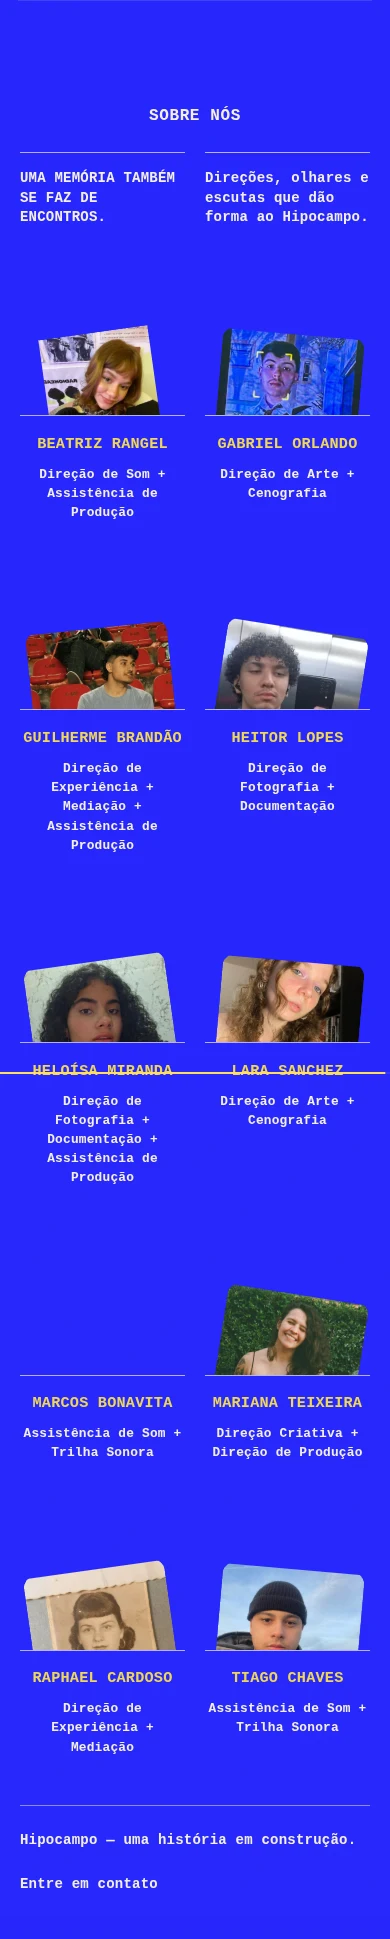
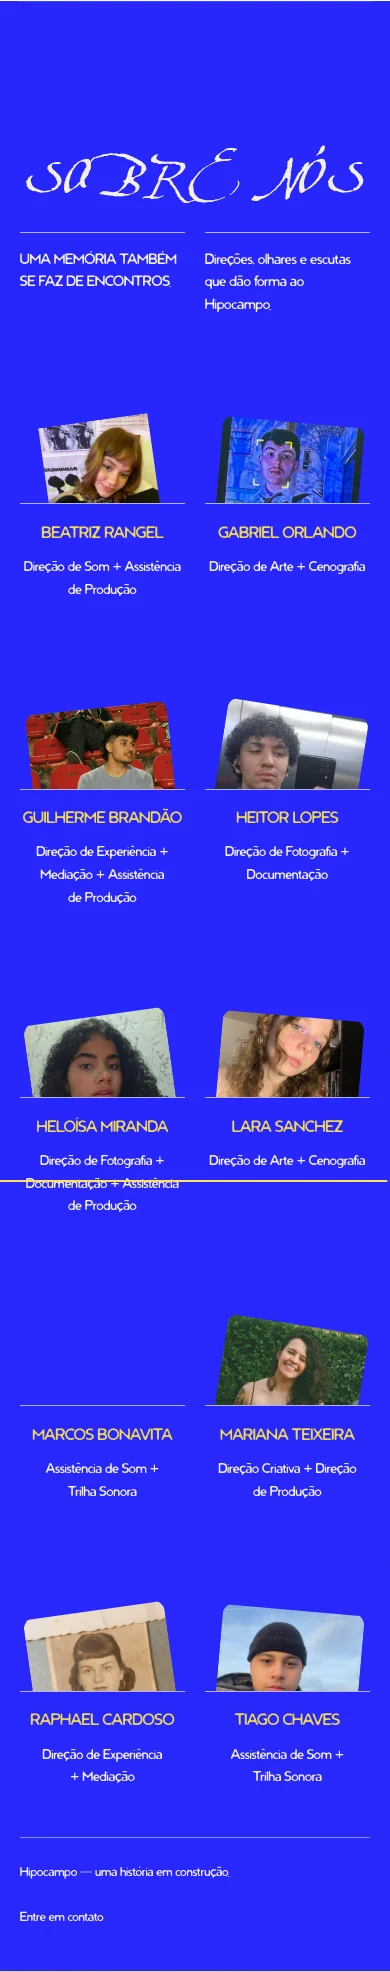
feat(relatos): entrar na carta em tela cheia e aplicar fontes locais

diff --git a/Kimi_Agent_HIPOCAMPO 3D Interactive Site/hipocampo/public/assets/stories-letter.js b/Kimi_Agent_HIPOCAMPO 3D Interactive Site/hipocampo/public/assets/stories-letter.js
@@ -17,12 +17,13 @@ export function prepareStoriesLetter(section) {
         <div class="stories-envelope-scene">
           <div class="stories-envelope-back" aria-hidden="true"></div>
           <div class="stories-paper-pocket">
-            <article class="stories-letter-paper" id="relatos-carta" aria-label="Espaço reservado para os relatos" aria-hidden="true"></article>
+            <article class="stories-letter-paper" id="relatos-carta" aria-hidden="true"></article>
           </div>
           <div class="stories-envelope-front" aria-hidden="true"><span class="stories-envelope-name">Hipocampo</span></div>
           <div class="stories-envelope-flap" aria-hidden="true"></div>
           <div class="stories-envelope-seal" aria-hidden="true">H</div>
         </div>
+        <article class="stories-reading-room" id="relatos-conteudo" aria-label="Relatos" aria-hidden="true"><p>Em breve, relatos</p></article>
       </div>
     </div>`
 
@@ -34,45 +35,57 @@ export function prepareStoriesLetter(section) {
   const seal = section.querySelector('.stories-envelope-seal')
   const pocket = section.querySelector('.stories-paper-pocket')
   const paper = section.querySelector('.stories-letter-paper')
+  const room = section.querySelector('.stories-reading-room')
   const shell = [flap, section.querySelector('.stories-envelope-back'), section.querySelector('.stories-envelope-front')]
   let lastPhase = ''
   const setPhase = phase => {
     if (phase === lastPhase) return
     lastPhase = phase
     section.dataset.letterPhase = phase
-    paper.setAttribute('aria-hidden', String(phase !== 'open'))
+    room.setAttribute('aria-hidden', String(phase !== 'open'))
+    section.dispatchEvent(new CustomEvent('hipocampo:letter-phase', { bubbles: true }))
   }
-  // Geometry is read only when the timeline is created/refreshed, never in
-  // wheel/touch handlers. Normal page scrolling drives the reversible scene.
-  const paperY = () => {
-    const height = window.innerHeight
-    const naturalTop = stage.clientHeight * .58 + scene.offsetHeight / 2 - 16 - paper.offsetHeight
-    return Math.max(120, height * .2) - naturalTop
+  // Cache the camera framing on refresh, including mobile browser-bar changes.
+  // No geometry reads or document-wide custom properties on scroll frames.
+  let geometry = {}
+  const measure = () => {
+    const height = stage.clientHeight
+    const paperHeight = paper.offsetHeight
+    const anchor = height * .58 + scene.offsetHeight / 2 - 16
+    const zoom = Math.max(stage.clientWidth / paper.offsetWidth, height / paperHeight) * 1.06
+    geometry = {
+      paperY: Math.max(120, height * .2) - (anchor - paperHeight),
+      zoom, zoomY: (height + paperHeight * zoom) / 2 - anchor,
+      shellY: Math.min(height * .22, 180),
+    }
   }
   const media = gsap.matchMedia()
   media.add('(prefers-reduced-motion: no-preference)', () => {
     setPhase('closed')
+    measure()
     const timeline = gsap.timeline({
       defaults: { ease: 'none' },
       scrollTrigger: {
         id: 'hipocampo-stories-letter', trigger: track,
         start: 'top top', end: 'bottom bottom', scrub: true,
-        invalidateOnRefresh: true,
-        onUpdate: self => setPhase(self.progress < .06 ? 'closed' : self.progress < .82 ? 'opening' : 'open'),
+        invalidateOnRefresh: true, onRefreshInit: measure,
+        onUpdate: self => setPhase(self.progress < .06 ? 'closed' : self.progress < .8 ? 'opening' : 'open'),
       },
     })
     timeline
       .set(flap, { rotationX: 0, zIndex: 4, transformOrigin: '50% 0%' }, 0)
-      .set(paper, { scaleX: .94, scaleY: .42, y: 0, transformOrigin: '50% 100%' }, 0)
+      .set(paper, { scaleX: .94, scaleY: .42, y: 0, rotationX: 0, rotationY: 0, transformOrigin: '50% 100%' }, 0)
       .set(pocket, { overflow: 'hidden' }, 0)
-      .to(seal, { opacity: 0, scale: .65, duration: .12 }, .02)
-      .to(flap, { rotationX: -180, duration: .28 }, .07)
-      .to(intro, { opacity: 0, y: -24, duration: .22 }, .12)
-      .set(flap, { zIndex: 0 }, .24)
-      .set(pocket, { overflow: 'visible' }, .28)
-      .to(paper, { scaleX: 1, scaleY: 1, y: paperY, duration: .36 }, .29)
-      .to(shell, { y: () => Math.min(window.innerHeight * .22, 180), opacity: 0, duration: .24 }, .58)
-      .to({}, { duration: .18 }, .82)
+      .to(seal, { opacity: 0, scale: .65, duration: .1 }, .02)
+      .to(flap, { rotationX: -180, duration: .2 }, .05)
+      .to(intro, { opacity: 0, y: -24, duration: .17 }, .08)
+      .set(flap, { zIndex: 0 }, .18)
+      .set(pocket, { overflow: 'visible' }, .2)
+      .to(paper, { scaleX: 1, scaleY: 1, y: () => geometry.paperY, rotationX: -7, rotationY: 3, duration: .24 }, .21)
+      .to(shell, { y: () => geometry.shellY, opacity: 0, duration: .22 }, .4)
+      .to(paper, { scaleX: () => geometry.zoom, scaleY: () => geometry.zoom, y: () => geometry.zoomY, rotationX: 0, rotationY: 0, duration: .32 }, .48)
+      .to(room, { autoAlpha: 1, duration: .06 }, .8)
+      .to({}, { duration: .14 }, .86)
   })
   media.add('(prefers-reduced-motion: reduce)', () => setPhase('open'))
 

diff --git a/Kimi_Agent_HIPOCAMPO 3D Interactive Site/hipocampo/public/assets/stories-letter.css b/Kimi_Agent_HIPOCAMPO 3D Interactive Site/hipocampo/public/assets/stories-letter.css
@@ -1,13 +1,13 @@
 #relatos.stories-letter-section { position: relative; padding: 0; background: #6b311c; color: #f4f0e7; scroll-margin-top: 0; overflow: clip; }
-.stories-scroll-track { position: relative; height: 260svh; }
-.stories-correspondence { position: sticky; top: 0; height: 100svh; perspective: 1200px; }
+.stories-scroll-track { position: relative; height: 320svh; }
+.stories-correspondence { position: sticky; top: 0; height: 100vh; height: 100dvh; overflow: hidden; perspective: 1200px; }
 .stories-introduction { position: absolute; top: max(6rem, 10svh); left: 1.25rem; right: 1.25rem; text-align: center; }
 #relatos .stories-eyebrow { margin: 0; color: #f0d756; font: 400 .8rem/1.5 "Courier New", Courier, monospace; letter-spacing: .14em; text-transform: uppercase; }
 #relatos .stories-introduction h2 { margin: .6rem 0 1.2rem; padding-bottom: .35em; color: #f4f0e7; font: 400 clamp(3.8rem, 6vw, 5.5rem)/1.35 "AquilineTwo", Georgia, serif; }
-#relatos .stories-invitation { margin: 0; font: 400 .875rem/1.5 "Courier New", Courier, monospace; }
+#relatos .stories-invitation { margin: 0; font: 400 1rem/1.5 "SquidBoy", sans-serif; }
 .stories-envelope-scene { position: absolute; left: 50%; top: 58%; width: min(88vw, 34rem); aspect-ratio: 1.58; transform: translate(-50%, -50%); perspective: 1200px; isolation: isolate; }
 .stories-envelope-back { position: absolute; inset: 0; z-index: 0; background: #d9cbae; border: 1px solid #c7b58f; border-radius: .25rem; box-shadow: 0 1.5rem 3rem #210c0740; }
-.stories-paper-pocket { position: absolute; inset: 0; z-index: 1; overflow: hidden; }
+.stories-paper-pocket { position: absolute; inset: 0; z-index: 1; overflow: hidden; perspective: 1200px; }
 .stories-letter-paper { position: absolute; left: 8%; bottom: 1rem; width: 84%; height: 56svh; max-height: 40rem; margin: 0; padding: 0; background: #fff; border: 1px solid #ebe8e2; border-radius: 2px; box-shadow: 0 .8rem 2rem #210c0726; transform: scale(.94, .42); transform-origin: 50% 100%; }
 /* The folds are separate moving surfaces: the top opens around its hinge,
    then the pocket moves away from the blank sheet. */
@@ -17,8 +17,10 @@
 .stories-envelope-name { position: absolute; z-index: 1; left: 0; right: 0; bottom: 22%; text-align: center; color: #6b311c; font: 400 clamp(2rem, 4vw, 3rem)/1.3 "AquilineTwo", Georgia, serif; }
 .stories-envelope-flap { position: absolute; z-index: 4; top: 0; left: 0; width: 100%; height: 60%; background: #e3d5b9; clip-path: polygon(0 0, 100% 0, 50% 100%); transform-origin: 50% 0%; backface-visibility: visible; }
 .stories-envelope-seal { position: absolute; z-index: 5; left: 50%; top: 52%; display: grid; place-items: center; width: 3rem; height: 3rem; margin-left: -1.5rem; color: #6b311c; background: #f0d756; border: 1px solid #c6a83e; border-radius: 50%; box-shadow: 0 2px 5px #54271330; font: 700 1.25rem/1 Georgia, "Times New Roman", serif; }
+.stories-reading-room { position: absolute; inset: 0; z-index: 6; display: grid; place-items: center; padding: 6rem 1.5rem 3rem; background: #fff; color: #6b311c; opacity: 0; visibility: hidden; }
+.stories-reading-room p { margin: 0; text-align: center; font: 400 clamp(1.5rem, 3vw, 2.5rem)/1.5 "SquidBoy", sans-serif; }
 @media (max-width: 600px) {
-  .stories-scroll-track { height: 250svh; }
+  .stories-scroll-track { height: 310svh; }
   .stories-introduction { top: 6.5rem; }
   #relatos .stories-introduction h2 { font-size: 3.8rem; }
   .stories-envelope-scene { width: 88vw; }
@@ -26,12 +28,7 @@
 }
 @media (prefers-reduced-motion: reduce) {
   .stories-scroll-track { height: auto; }
-  .stories-correspondence { position: relative; height: auto; min-height: 100svh; padding: 14rem 0 3rem; }
-  .stories-introduction { top: 6rem; }
-  #relatos .stories-introduction h2 { margin: .3rem 0; padding: 0; font-size: 2.8rem; }
-  .stories-invitation { display: none; }
-  .stories-envelope-scene { position: relative; left: auto; top: auto; margin: 0 auto; height: 56svh; transform: none; }
-  .stories-envelope-back, .stories-envelope-front, .stories-envelope-flap, .stories-envelope-seal { display: none; }
-  .stories-paper-pocket { overflow: visible; }
-  .stories-letter-paper { left: 0; bottom: 0; width: 100%; height: 100%; max-height: none; transform: none; }
+  .stories-correspondence { position: relative; height: auto; min-height: 100dvh; background: #fff; }
+  .stories-introduction, .stories-envelope-scene { display: none; }
+  .stories-reading-room { position: relative; min-height: 100vh; min-height: 100dvh; opacity: 1; visibility: visible; }
 }

diff --git a/Kimi_Agent_HIPOCAMPO 3D Interactive Site/hipocampo/public/assets/team-finale.css b/Kimi_Agent_HIPOCAMPO 3D Interactive Site/hipocampo/public/assets/team-finale.css
@@ -1,11 +1,11 @@
 #informacoes.team-finale {
   display: block; min-height: 100svh; padding: 8rem 6vw 3rem;
   background: #2626fc !important; color: #f4f0e7;
-  overflow: clip; font-family: "Courier New", Courier, monospace;
-  font-weight: 700;
+  overflow: clip; font-family: "SquidBoy", sans-serif;
+  font-weight: 400;
 }
 .team-finale-top, .team-intro, .team-credit-grid, .team-finale-bottom { max-width: 1160px; margin-inline: auto; }
-#informacoes.team-finale h2 { margin: 0; font: inherit; font-size: 1rem; line-height: 1.5; text-transform: uppercase; text-align: center; letter-spacing: .04em; }
+#informacoes.team-finale h2 { margin: 0; padding: .2em .1em .45em; font: 400 clamp(3rem, 5.5vw, 5rem)/1.5 "AquilineTwo", Georgia, serif; text-transform: uppercase; text-align: center; letter-spacing: 0; }
 .team-intro { display: grid; grid-template-columns: 1fr 1fr; gap: 3rem; margin-top: 2rem; }
 .team-intro p { margin: 0; border-top: 1px solid #f4f0e7b3; padding-top: 1.7rem; font-size: clamp(.95rem, 1.3vw, 1.125rem); line-height: 1.4; text-wrap: pretty; }
 .team-intro p:first-child { text-transform: uppercase; }
@@ -20,8 +20,8 @@
 .team-credit.is-active .team-photo-float, .team-credit:focus-within .team-photo-float { animation: none; transform: none; }
 .team-photo-window:focus-visible, #informacoes.team-finale a:focus-visible { outline: 2px solid #fff; outline-offset: 5px; }
 .team-photo-unavailable { cursor: default; }
-#informacoes.team-finale .team-credit h3 { margin: 1.5rem 0 .65rem; font: inherit; color: #f0d756; font-size: clamp(1rem, 1.25vw, 1.125rem); line-height: 1.35; text-transform: uppercase; overflow-wrap: anywhere; }
-.team-credit-roles { margin: 0 auto; max-width: 28ch; font-size: clamp(.875rem, 1.1vw, 1rem); line-height: 1.45; text-wrap: pretty; }
+#informacoes.team-finale .team-credit h3 { margin: 1.5rem 0 .65rem; font: inherit; color: #f0d756; font-size: clamp(1.125rem, 1.4vw, 1.375rem); line-height: 1.35; text-transform: uppercase; overflow-wrap: anywhere; }
+.team-credit-roles { margin: 0 auto; max-width: 28ch; font-size: clamp(1rem, 1.15vw, 1.125rem); line-height: 1.45; text-wrap: pretty; }
 .team-finale-bottom { display: flex; align-items: center; justify-content: space-between; gap: 1.5rem; border-top: 1px solid #f4f0e780; padding-top: 1.5rem; font-size: .875rem; line-height: 1.5; }
 .team-finale-bottom p { margin: 0; }
 #informacoes.team-finale .team-finale-bottom a { display: inline-flex; align-items: center; min-height: 44px; color: inherit; text-underline-offset: .3em; }
@@ -37,15 +37,15 @@
 @media (max-width: 600px) {
   #informacoes.team-finale { padding: 6.5rem 1.25rem 2rem; }
   .team-intro { gap: 1.25rem; margin-top: 1.5rem; }
-  .team-intro p { padding-top: 1rem; font-size: .875rem; }
+  .team-intro p { padding-top: 1rem; font-size: 1rem; }
   .team-credit-grid { grid-template-columns: repeat(2, minmax(0, 1fr)); gap: 2.5rem 1.25rem; margin-top: 2.5rem; margin-bottom: 3rem; }
   .team-photo-window { height: clamp(125px, 38vw, 190px); }
   .team-photo-float { width: 86%; left: 7%; }
   .team-revealed .team-photo-window img { transform: translateY(4rem) rotate(var(--member-angle)); }
   .team-credit.is-active .team-photo-window img, .team-photo-window:focus-visible img { transform: none; }
   .team-photo-window img { border-radius: .75rem; }
-  #informacoes.team-finale .team-credit h3 { margin-top: 1.1rem; font-size: .95rem; }
-  .team-credit-roles { font-size: .8rem; line-height: 1.5; }
+  #informacoes.team-finale .team-credit h3 { margin-top: 1.1rem; font-size: 1.1rem; }
+  .team-credit-roles { font-size: .95rem; line-height: 1.5; }
   .team-finale-bottom { display: block; }
   .team-finale-bottom a { margin-top: .75rem; }
 }

diff --git a/Kimi_Agent_HIPOCAMPO 3D Interactive Site/hipocampo/public/assets/editorial-motion.js b/Kimi_Agent_HIPOCAMPO 3D Interactive Site/hipocampo/public/assets/editorial-motion.js
@@ -1,4 +1,4 @@
-import { prepareClientNavigation, prepareClientEditorial } from './client-editorial.js?v=stories-scroll-1'
+import { prepareClientNavigation, prepareClientEditorial } from './client-editorial.js?v=letter-immersive-1'
 import { n as gsap, t as ScrollTrigger } from './index-BXEErpTi.js?v=perf-1'
 
 gsap.registerPlugin(ScrollTrigger)
@@ -510,6 +510,12 @@ function initializeEditorialRedesign() {
       activeCursorTheme = activeTheme === 'dark' ? 'on-dark' : 'on-paper'
     }
 
+    if (activeId === 'relatos') {
+      const insideLetter = document.querySelector('#relatos')?.dataset.letterPhase === 'open'
+      activeTheme = insideLetter ? 'light' : 'dark'
+      activeCursorTheme = insideLetter ? 'on-paper' : 'on-brown'
+    }
+
     if (activeTheme !== currentHeaderTheme) {
       currentHeaderTheme = activeTheme
       header.dataset.navTheme = activeTheme
@@ -755,6 +761,7 @@ function initializeEditorialRedesign() {
     footer,
   ].filter(Boolean).forEach((section) => cursorVisibilityObserver.observe(section))
   window.addEventListener('scroll', requestScrollNavSync, { passive: true })
+  window.addEventListener('hipocampo:letter-phase', requestScrollNavSync)
   window.addEventListener('resize', onViewportResize, { passive: true })
   ScrollTrigger.addEventListener('refresh', onViewportResize)
   document.addEventListener('mouseleave', onPointerLeaveWindow)
@@ -771,6 +778,7 @@ function initializeEditorialRedesign() {
     splitRecords.splice(0).forEach((record) => record.revert())
     magneticCleanups.splice(0).forEach((fn) => fn())
     window.removeEventListener('scroll', requestScrollNavSync)
+    window.removeEventListener('hipocampo:letter-phase', requestScrollNavSync)
     window.removeEventListener('resize', onViewportResize)
     ScrollTrigger.removeEventListener('refresh', onViewportResize)
     document.removeEventListener('mouseleave', onPointerLeaveWindow)

diff --git a/Kimi_Agent_HIPOCAMPO 3D Interactive Site/hipocampo/index.html b/Kimi_Agent_HIPOCAMPO 3D Interactive Site/hipocampo/index.html
@@ -2,7 +2,7 @@
 <html lang="pt-BR">
   <head>
     <meta charset="UTF-8" />
-    <meta name="hipocampo-release" content="stories-scroll-blank-20261114-1" />
+    <meta name="hipocampo-release" content="letter-immersive-fonts-20261114-1" />
     <meta name="viewport" content="width=device-width, initial-scale=1.0" />
     <meta
       name="description"
@@ -26,8 +26,8 @@
     <link rel="stylesheet" href="/assets/installation-room.css?v=type-installation-1" />
     <link rel="stylesheet" href="/assets/client-update.css?v=type-installation-1" />
     <link rel="stylesheet" href="/assets/mobile-layout.css?v=phone-gestures-1" />
-    <link rel="stylesheet" href="/assets/team-finale.css?v=credits-name-emphasis-1" />
-    <link rel="stylesheet" href="/assets/stories-letter.css?v=scroll-blank-1" />
+    <link rel="stylesheet" href="/assets/team-finale.css?v=fonts-aquiline-squid-1" />
+    <link rel="stylesheet" href="/assets/stories-letter.css?v=immersive-1" />
     <!-- Route only the recovered installation chunk to its editable 3D entry.
          Keeping the shared React URL unchanged avoids mounting the site twice. -->
     <script type="importmap">
@@ -47,7 +47,7 @@
     <script type="module" src="/assets/page3-house.js?v=phone-gestures-1"></script>
     <script type="module" src="/assets/page4-sobre.js?v=white-backgrounds-1"></script>
     <script type="module" src="/assets/page5-vestigios.js?v=island-gpu-2"></script>
-    <script type="module" src="/assets/editorial-motion.js?v=stories-scroll-1"></script>
+    <script type="module" src="/assets/editorial-motion.js?v=letter-immersive-1"></script>
     <script type="module" src="/assets/photo-trail.js?v=phone-gestures-1"></script>
     <script type="module" src="/assets/mobile-layout.js?v=phone-gestures-1"></script>
     <script type="module" src="/assets/team-finale.js?v=about-title-1"></script>

diff --git a/Kimi_Agent_HIPOCAMPO 3D Interactive Site/hipocampo/public/assets/client-editorial.js b/Kimi_Agent_HIPOCAMPO 3D Interactive Site/hipocampo/public/assets/client-editorial.js
@@ -1,4 +1,4 @@
-import { prepareStoriesLetter } from './stories-letter.js?v=scroll-blank-1'
+import { prepareStoriesLetter } from './stories-letter.js?v=immersive-1'
 
 // Adapt the recovered editorial entry without editing its bundled React code.
 export function prepareClientNavigation(header) {

diff --git a/Kimi_Agent_HIPOCAMPO 3D Interactive Site/hipocampo/scripts/test-stories-letter.py b/Kimi_Agent_HIPOCAMPO 3D Interactive Site/hipocampo/scripts/test-stories-letter.py
@@ -1,4 +1,4 @@
-"""Verify the reversible scroll envelope and deliberately blank story sheet."""
+"""Verify the immersive scroll envelope, full-screen white room and requested fonts."""
 import asyncio,json,os
 from pathlib import Path
 from playwright.async_api import async_playwright
@@ -14,8 +14,13 @@ async def check(browser,w,h,reduced=False):
  await p.wait_for_function("!document.querySelector('.hipocampo-intro')")
  await p.evaluate('document.fonts.ready');await p.wait_for_timeout(600)
  await p.evaluate("async()=>{const {t:ST}=await import('/assets/index-BXEErpTi.js?v=perf-1');ST.refresh()}")
- root=p.locator('#relatos');paper=root.locator('.stories-letter-paper');track=root.locator('.stories-scroll-track')
+ root=p.locator('#relatos');paper=root.locator('.stories-letter-paper');track=root.locator('.stories-scroll-track');room=root.locator('.stories-reading-room')
  assert await p.locator('#team-finale-title').inner_text()=='SOBRE NÓS'
+ assert await p.locator('#team-finale-title').evaluate('(e)=>getComputedStyle(e).fontFamily.includes("AquilineTwo")')
+ assert await p.locator('.team-credit h3').first.evaluate('(e)=>getComputedStyle(e).fontFamily.includes("SquidBoy")')
+ assert await p.locator('.team-credit-roles').first.evaluate('(e)=>getComputedStyle(e).fontFamily.includes("SquidBoy")')
+ assert await p.evaluate('document.fonts.check(\'400 48px "AquilineTwo"\') && document.fonts.check(\'400 18px "SquidBoy"\')')
+ assert (await room.text_content()).strip()=='Em breve, relatos'
  assert await root.locator('button,blockquote,.stories-voices,.stories-empty,.stories-letter-signoff').count()==0
  assert (await paper.inner_text()).strip()==''
  assert await paper.locator('*').count()==0
@@ -27,7 +32,8 @@ async def check(browser,w,h,reduced=False):
  if reduced:
   await go(0)
   assert await root.get_attribute('data-letter-phase')=='open'
-  assert await root.locator('.stories-envelope-flap').evaluate('(e)=>getComputedStyle(e).display')=='none'
+  assert await root.locator('.stories-envelope-scene').evaluate('(e)=>getComputedStyle(e).display')=='none'
+  assert await room.get_attribute('aria-hidden')=='false'
   assert await track.evaluate('(e)=>e.offsetHeight')<h*1.6
   await p.screenshot(path=str(OUT/f'reduced-{w}.png'),style=style)
  else:
@@ -40,15 +46,19 @@ async def check(browser,w,h,reduced=False):
   assert states[0]['phase']=='closed',states
   assert states[0]['scaleY']<.5,states
   assert states[-1]['phase']=='open',states
-  assert abs(states[-1]['scaleY']-1)<.01 and states[-1]['frontOpacity']<.01,states
+  assert states[-1]['scaleY']>1.5 and states[-1]['frontOpacity']<.01,states
   assert states[1]['flap']!=states[0]['flap'],states
-  assert await paper.get_attribute('aria-hidden')=='false'
+  assert await room.get_attribute('aria-hidden')=='false'
   rect=await paper.bounding_box()
-  assert rect['x']>=0 and rect['x']+rect['width']<=w+1,rect
-  assert rect['y']>=100 and rect['y']+rect['height']<=h+1,rect
+  assert rect['x']<=0 and rect['x']+rect['width']>=w-1,rect
+  assert rect['y']<=0 and rect['y']+rect['height']>=h-1,rect
+  roomRect=await room.bounding_box()
+  assert abs(roomRect['x'])<1 and abs(roomRect['y'])<1 and abs(roomRect['width']-w)<1 and abs(roomRect['height']-h)<1,roomRect
+  assert await p.locator('#root > header').get_attribute('data-nav-theme')=='light'
   await go(0)
   assert await root.get_attribute('data-letter-phase')=='closed'
-  assert await paper.get_attribute('aria-hidden')=='true'
+  assert await room.get_attribute('aria-hidden')=='true'
+  assert await p.locator('#root > header').get_attribute('data-nav-theme')=='dark'
   if w>=768:
    before=await p.evaluate('scrollY');await p.mouse.move(w/2,h*.7);await p.mouse.wheel(0,400);await p.wait_for_timeout(800)
    assert await p.evaluate('scrollY')>before+50
@@ -76,12 +86,12 @@ async def check(browser,w,h,reduced=False):
   await p.evaluate("async()=>{const {t:ST}=await import('/assets/index-BXEErpTi.js?v=perf-1');ST.refresh()}")
   await go(1)
   resized=await paper.bounding_box()
-  assert resized['x']>=0 and resized['x']+resized['width']<=391 and resized['y']>=100 and resized['y']+resized['height']<=845,resized
+  assert resized['x']<=0 and resized['x']+resized['width']>=389 and resized['y']<=0 and resized['y']+resized['height']>=843,resized
   assert await p.evaluate("async()=>{const {t:ST}=await import('/assets/index-BXEErpTi.js?v=perf-1');return ST.getAll().filter(t=>t.vars.id==='hipocampo-stories-letter').length}")==1
   await go(0);assert await root.get_attribute('data-letter-phase')=='closed'
  assert not errors,errors
  assert not missing,missing
- print(json.dumps({'viewport':[w,h],'reducedMotion':reduced,'blankPaper':True,'scrollReversible':not reduced,'nativeWheelOrTouch':not reduced,'aboutTitle':True,'noOverflow':True,'errors':errors,'missingFiles':missing}),flush=True)
+ print(json.dumps({'viewport':[w,h],'reducedMotion':reduced,'fullScreenWhite':True,'fontsLoaded':True,'scrollReversible':not reduced,'nativeWheelOrTouch':not reduced,'aboutTitle':True,'noOverflow':True,'errors':errors,'missingFiles':missing}),flush=True)
  await p.close()
 async def main():
  async with async_playwright() as pw:

diff --git a/Kimi_Agent_HIPOCAMPO 3D Interactive Site/hipocampo/docs/stories-letter.md b/Kimi_Agent_HIPOCAMPO 3D Interactive Site/hipocampo/docs/stories-letter.md
@@ -1,6 +1,6 @@
 # Relatos — envelope aberto pela rolagem
 
-A seção #relatos contém um envelope em camadas que abre progressivamente conforme a rolagem normal. A animação retira o selo, vira a aba, revela a folha e afasta o envelope. Ao rolar para cima, a sequência se inverte. A folha termina completamente branca, sem carta de apresentação, assinatura ou aviso de relatos em breve; é o espaço reservado para os relatos futuros.
+A seção #relatos contém um envelope em camadas que abre progressivamente conforme a rolagem normal. A animação retira o selo, vira a aba, revela a folha e afasta o envelope. Ao rolar para cima, a sequência se inverte. Depois da abertura, a folha cresce com perspectiva até preencher toda a viewport branca. Uma camada de leitura mantém o texto “Em breve, relatos” nítido no final, como espaço para os relatos futuros. Não há carta de apresentação ou assinatura no papel.
 
 O usuário esclareceu que a referência é o movimento da carta e não o desenho. O link Pinterest não pôde ser visualizado pela rede do ambiente; a imagem do envelope anexada e a descrição explícita orientaram a implementação. Não se afirma reprodução exata do vídeo.
 
@@ -8,16 +8,21 @@ O usuário esclareceu que a referência é o movimento da carta e não o desenho
 
 - stories-letter.js monta as superfícies e usa o GSAP/ScrollTrigger já existente: scrub, progresso reversível e geometria recalculada apenas ao inicializar/atualizar o layout.
 - stories-letter.css usa sticky nativo e superfícies CSS do envelope; nenhuma imagem de carta ou captura de tela substitui a interação.
+- A aproximação é dimensionada por geometria da viewport: a folha cobre os quatro cantos, inclusive após resize.
 - Rolagem não é interceptada, bloqueada ou simulada com temporizadores. Nenhum loop adicional contínuo de JavaScript.
 - A fase semântica e aria-hidden só mudam ao atravessar os limites de fechado/abrindo/aberto.
-- Com movimento reduzido, a folha branca aparece diretamente e o trecho longo de animação é removido.
-- Navegação #relatos permanece e o cabeçalho usa contraste claro sobre o fundo marrom.
-- A equipe mantém os créditos e retratos; título alterado para SOBRE NÓS.
+- Com movimento reduzido, a tela branca com o aviso aparece diretamente e o trecho longo de animação é removido.
+- Navegação #relatos permanece; cabeçalho claro sobre marrom e marrom sobre branco, atualizado na mudança de fase sem depender de novo movimento de rolagem.
+- A equipe mantém os créditos e retratos; título SOBRE NÓS em AquilineTwo e textos em SquidBoy local.
 
 ## Verificação
 
-npm run build, node --check e scripts/test-stories-letter.py. Desktop 1440×1000 e 1366×768, celulares 390×844 e 320×640, celular com movimento reduzido. Estados 0/20/45/70/100%, reversão, roda do mouse e PageDown nativos, gesto de toque via CDP, ausência de bloqueio ao continuar à equipe, branco puro sem texto/nós internos na folha, viewport sem overflow, imagens e créditos preservados, título SOBRE NÓS, console e recursos ausentes. Todos passaram.
+npm run build, node --check e scripts/test-stories-letter.py. Desktop 1440×1000 e 1366×768, celulares 390×844 e 320×640, celular com movimento reduzido. Estados 0/20/45/70/100%, reversão, roda do mouse e PageDown nativos, gesto de toque via CDP, ausência de bloqueio ao continuar à equipe, branco puro cobrindo toda a viewport, aviso “Em breve, relatos”, fontes carregadas e contraste do cabeçalho, viewport sem overflow, imagens e créditos preservados, título SOBRE NÓS, console e recursos ausentes. Todos passaram.
 
-Uma rodada adicional desktop verificou mudança de preferência de movimento e redimensionamento para 390×844: geometria refeita, folha dentro da tela e somente uma timeline ativa.
+Uma rodada adicional desktop verificou mudança de preferência de movimento e redimensionamento para 390×844: geometria refeita, folha cobrindo a tela e somente uma timeline ativa.
 
 Capturas finais: docs/stories-scroll-closed-1440.webp, stories-scroll-opening-1440.webp, stories-scroll-open-390.webp. Imagens antigas de stories-letter-* são evidências históricas da versão anterior.
+
+## Evidências de aproximação
+
+Previews atuais: docs/stories-entering-1440.webp e docs/stories-fullscreen-390.webp. A geometria é cacheada em onRefreshInit, sem leituras de layout nos frames de scroll. O aviso aparece em camada separada depois do zoom, evitando ampliar ou desfocar as letras.

diff --git a/Kimi_Agent_HIPOCAMPO 3D Interactive Site/hipocampo/design-qa.md b/Kimi_Agent_HIPOCAMPO 3D Interactive Site/hipocampo/design-qa.md
@@ -654,3 +654,18 @@ Evidências atuais: docs/stories-scroll-closed-1440.webp, stories-scroll-opening
 Testes Playwright: cinco cenários 1440/1366/390/320 e movimento reduzido. Progresso 0/20/45/70/100%, reversão, roda, PageDown, gesto real de toque via CDP, saída para a equipe sem travar, geometria da folha, conteúdo vazio, ausência de overflow/erros/404. Verificação adicional de alteração de movimento reduzido e resize desktop→390×844 confirma uma timeline e folha enquadrada. Build e sintaxe JS passaram.
 
 final result: passed
+
+
+## 2026-11-14 — Entrar na carta e fontes locais
+
+Pedido: SOBRE NÓS em Aquiline e restante da seção em Squid Boy; abertura com aproximação até o branco preencher a tela, seguida de “Em breve, relatos”. Implementado com a fonte AquilineTwo existente no título e SquidBoy local nos nomes, funções e textos. Tamanhos ajustados opticamente após a mudança de família para legibilidade no celular; nomes amarelos mantidos.
+
+A animação agora retira a folha com pequena inclinação 3D, aproxima a superfície branca dimensionada pelos quatro cantos da viewport e revela uma camada de leitura com o aviso, sem ampliar o texto. Cabeçalho muda para marrom sobre branco por evento de fase, mantendo transparência. Rolagem reversível e nativa; movimento reduzido exibe a tela final diretamente.
+
+Evidências renderizadas: docs/stories-entering-1440.webp, docs/stories-fullscreen-390.webp e previews de equipe 1440/390 atualizados. Inspeção adicional em 320×640 confirma título em duas linhas sem cortar e nomes/funções completos. DPR 1. Fontes carregadas e famílias efetivas verificadas no navegador. Sem erros JS ou 404.
+
+Playwright: 1440×1000, 1366×768, 390×844, 320×640 e movimento reduzido; estados de scroll, reversão, roda/PageDown/toque, saída para a equipe sem travar, superfície/área de leitura cobrindo a viewport inteira, aviso e tema do cabeçalho. Resize e troca de preferência de movimento verificam somente uma timeline. Build/sintaxe passaram.
+
+A atualização de fotos pelo Drive permanece bloqueada: CONNECT 403 do proxy antes de listar a pasta. Nove retratos e dez créditos anteriores foram preservados; solicitado ZIP ao usuário. Esta limitação não altera o resultado visual dos ajustes concluídos e não é tratada como substituição de fotos realizada.
+
+final result: passed

diff --git a/Kimi_Agent_HIPOCAMPO 3D Interactive Site/hipocampo/docs/team-finale-status.md b/Kimi_Agent_HIPOCAMPO 3D Interactive Site/hipocampo/docs/team-finale-status.md
@@ -22,7 +22,7 @@ Os nove retratos recebidos permanecem associados às mesmas pessoas. Nenhum retr
 ## Layout e movimento
 
 - Quatro colunas no desktop, três no tablet e duas no celular.
-- Fonte monoespaçada em nomes e funções, como no print; nomes em amarelo #f0d756, maiores e com mais separação das funções em branco; textos sem truncamento.
+- Título SOBRE NÓS em AquilineTwo e nomes, funções e demais textos da seção em SquidBoy local; nomes em amarelo #f0d756, maiores e com mais separação das funções em branco; textos sem truncamento.
 - Entrada suave por fotografia, flutuação local enquanto visível, revelação da foto inteira ao passar o mouse, focar ou tocar, sem zoom nem recorte da proporção original.
 - Toque alterna a posição; Escape retorna. Botões possuem nome acessível e estado aria-pressed.
 - Movimento reduzido desativa flutuação e deslocamentos. Animações pausam fora da tela e na aba oculta.
@@ -40,3 +40,7 @@ Produção: Cloudflare Pages conectado ao repositório `EduardoStuhr/hipocampo`,
 ## Ajuste de enquadramento — 14/11/2026
 
 Retirado o zoom e o object-fit cover dos retratos. As fotos preservam a proporção original com contain; no estado ativo ficam inteiramente dentro da área disponível. O movimento de flutuação para ao interagir, para não cortar o topo. Em movimento reduzido, os retratos já aparecem inteiros. Regressão verifica limites geométricos, contain e escala 1 nas nove imagens em PC, celular e movimento reduzido, incluindo Lara.
+
+## Fotos solicitadas via Drive
+
+O usuário forneceu a pasta 1UosI2R0KwSSMKrPRgvi35r82kKQ6fm5F para trocar as fotos e incluir pessoas. A tentativa de acesso retornou bloqueio do proxy de rede (CONNECT 403), sem listar o conteúdo. Nenhuma associação de foto/nome foi adivinhada ou alterada. Solicitado ZIP anexado com os arquivos nomeados para concluir essa parte.
